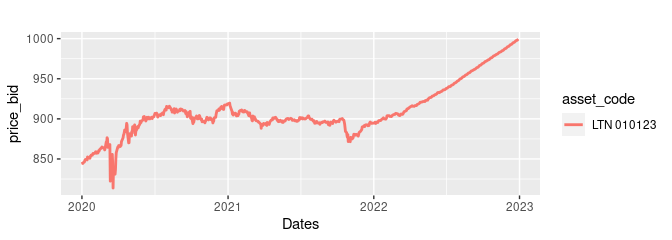
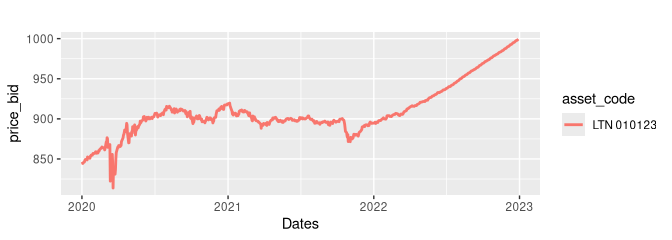
Optimize execution speed (parallel downloads/reads, vectorized date parsing) and fix roxygen2 inconsistencies

diff --git a/README.md b/README.md
@@ -1,5 +1,6 @@
 
 <!-- README.md is generated from README.Rmd. Please edit that file -->
+
 <!-- badges: start -->
 
 [![Codecov test
@@ -7,9 +8,6 @@ coverage](https://codecov.io/gh/msperlin/GetTDData/branch/master/graph/badge.svg
 [![Project Status: Active – The project has reached a stable, usable
 state and is being actively
 developed.](https://www.repostatus.org/badges/latest/active.svg)](https://www.repostatus.org/#active)
-[![R build
-(rcmdcheck)](https://github.com/msperlin/GetTDData/workflows/R-CMD-check/badge.svg)](https://github.com/msperlin/GetTDData/actions)
-
 <!-- badges: end -->
 
 # Package `GetTDData`
@@ -56,29 +54,29 @@ df_td <- td_get(assets,
 #> 
 #> ── Downloading TD files
 #> ℹ Downloading LTN_2020.xls
-#> ✔    '/tmp/Rtmpf9eiRh/td-files/LTN/LTN_2020.xls' is found, with size 176.1 kB.
+#> ✔    '/tmp/Rtmpc1MWKE/td-files/LTN/LTN_2020.xls' is found.
 #> ℹ Downloading LTN_2021.xls
-#> ✔    '/tmp/Rtmpf9eiRh/td-files/LTN/LTN_2021.xls' is found, with size 175.1 kB.
+#> ✔    '/tmp/Rtmpc1MWKE/td-files/LTN/LTN_2021.xls' is found.
 #> ℹ Downloading LTN_2022.xls
-#> ✔    '/tmp/Rtmpf9eiRh/td-files/LTN/LTN_2022.xls' is found, with size 175.6 kB.
+#> ✔    '/tmp/Rtmpc1MWKE/td-files/LTN/LTN_2022.xls' is found.
 #> 
 #> ── Checking files
 #> ✔ Found 3 files
 #> 
 #> ── Reading files
-#> ℹ Reading '/tmp/Rtmpf9eiRh/td-files/LTN/LTN_2020.xls'
+#> ℹ Reading '/tmp/Rtmpc1MWKE/td-files/LTN/LTN_2020.xls'
 #> ✔    Reading Sheet LTN 010121
 #> ✔    Reading Sheet LTN 010122
 #> ✔    Reading Sheet LTN 010123
 #> ✔    Reading Sheet LTN 010125
 #> ✔    Reading Sheet LTN 010126
-#> ℹ Reading '/tmp/Rtmpf9eiRh/td-files/LTN/LTN_2021.xls'
+#> ℹ Reading '/tmp/Rtmpc1MWKE/td-files/LTN/LTN_2021.xls'
 #> ✔    Reading Sheet LTN 010122
 #> ✔    Reading Sheet LTN 010123
 #> ✔    Reading Sheet LTN 010724
 #> ✔    Reading Sheet LTN 010125
 #> ✔    Reading Sheet LTN 010126
-#> ℹ Reading '/tmp/Rtmpf9eiRh/td-files/LTN/LTN_2022.xls'
+#> ℹ Reading '/tmp/Rtmpc1MWKE/td-files/LTN/LTN_2022.xls'
 #> ✔    Reading Sheet LTN 010123
 #> ✔    Reading Sheet LTN 010724
 #> ✔    Reading Sheet LTN 010125
@@ -110,17 +108,12 @@ p <- ggplot(data = LTN,
             aes(x = as.Date(ref_date), 
                 y = price_bid, 
                 color = asset_code)) + 
-  geom_line(size = 1) + scale_x_date() + labs(title = '', x = 'Dates')
-#> Warning: Using `size` aesthetic for lines was deprecated in ggplot2 3.4.0.
-#> ℹ Please use `linewidth` instead.
-#> This warning is displayed once every 8 hours.
-#> Call `lifecycle::last_lifecycle_warnings()` to see where this warning was
-#> generated.
+  geom_line(linewidth = 1) + scale_x_date() + labs(title = '', x = 'Dates')
 
 print(p)
 ```
 
-<img src="man/figures/README-plot.prices-1.png" width="100%" />
+<img src="man/figures/README-plot.prices-1.png" alt="" width="100%" />
 
 ## Downloading the Brazilian Yield Curve
 
